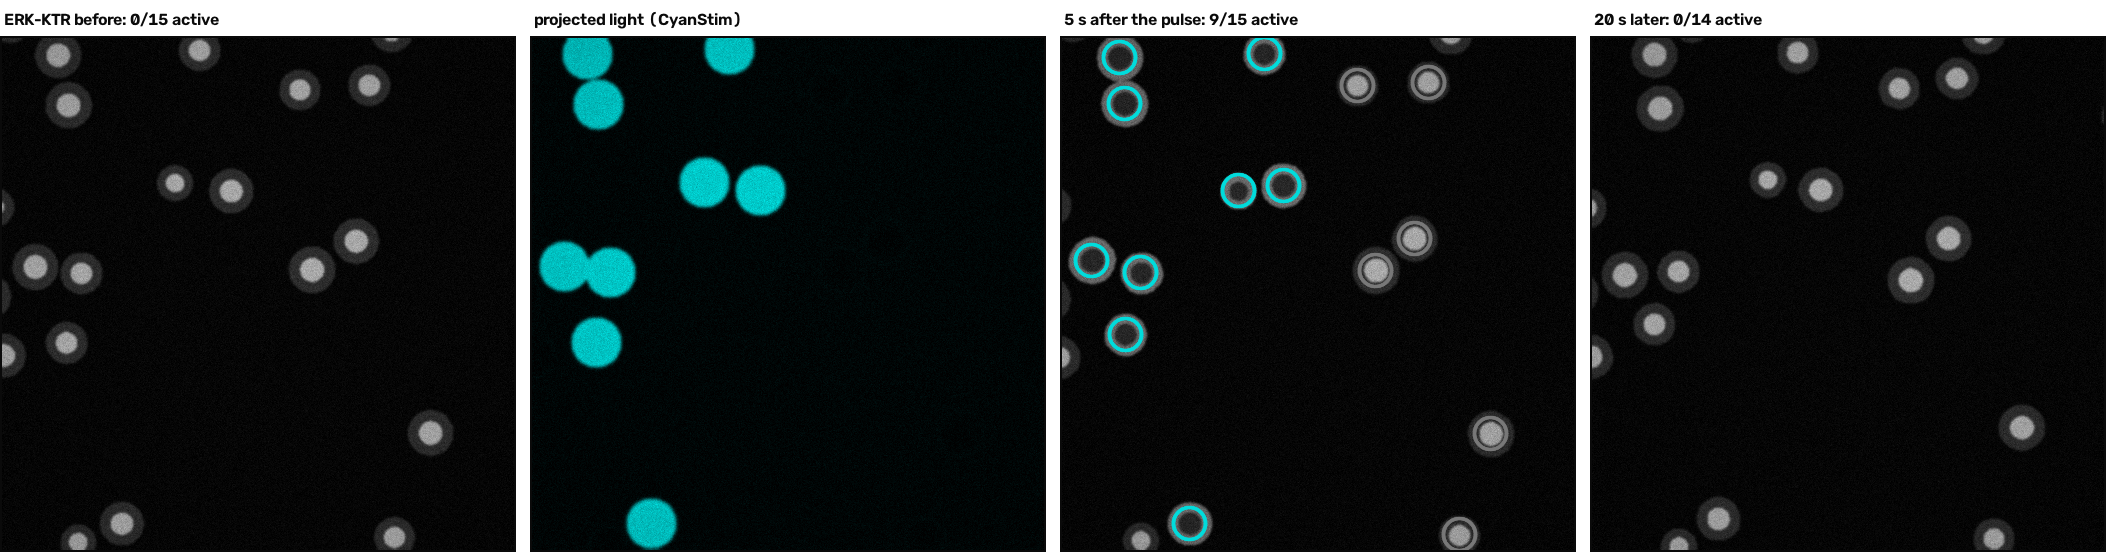
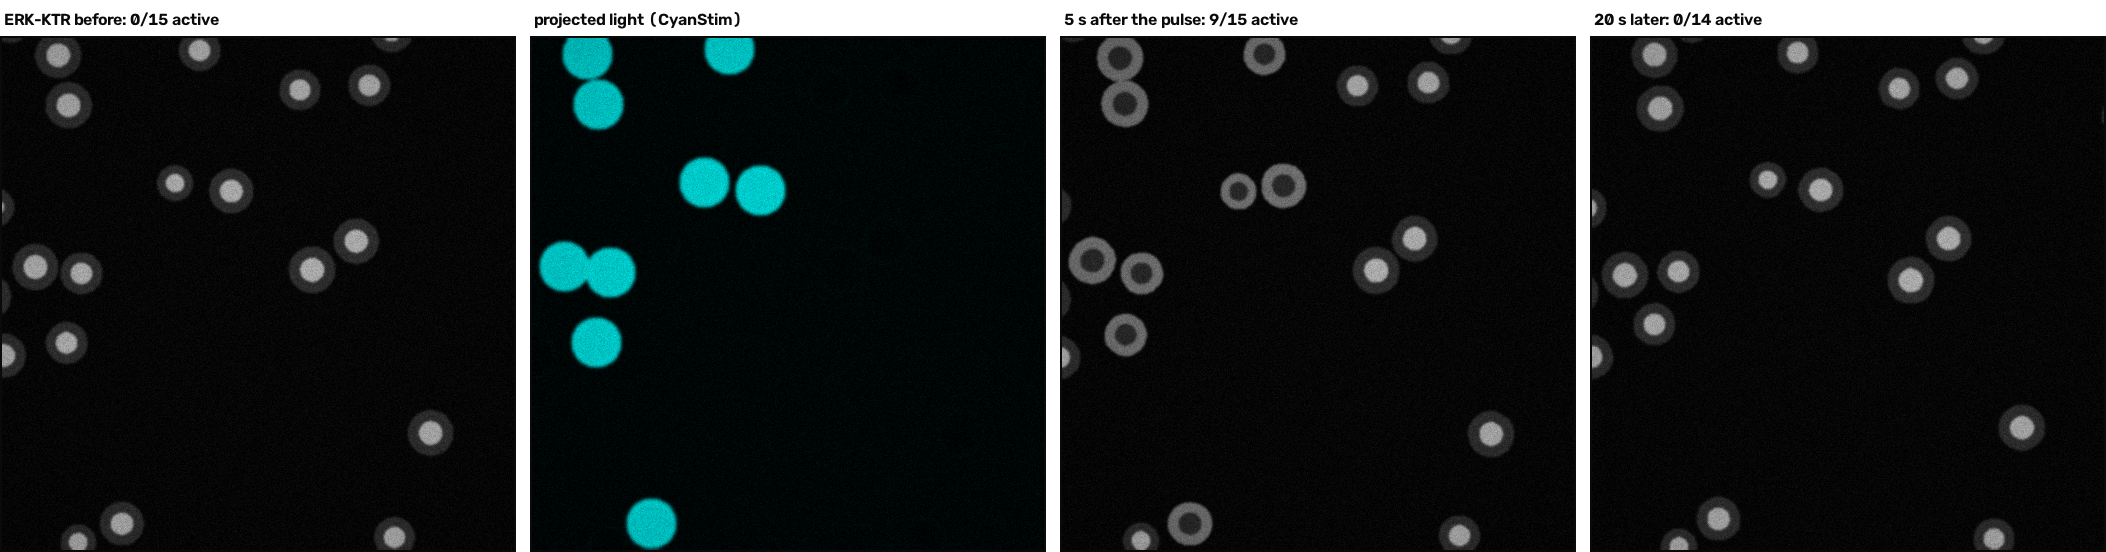
Drop ring overlays from the photoactivation figure (hard to read)

diff --git a/scripts/make_module_figures.py b/scripts/make_module_figures.py
@@ -435,15 +435,11 @@ def fig_photoactivation():
 
     proj_rgb = np.stack([np.zeros_like(proj), proj, proj], -1)  # cyan
 
-    after = ktr_rgb(ktr1)
-    for (x, y), a in zip(cells1, act1):
-        color = (0, 220, 220) if a > 0.5 else (120, 120, 120)
-        cv2.circle(after, (x, y), 16, color, 2, cv2.LINE_AA)
-
     panels = [
         frame_panel(ktr_rgb(ktr0), f"ERK-KTR before: {n0}/{len(cells)} active"),
         frame_panel(proj_rgb, "projected light (CyanStim)"),
-        frame_panel(after, f"5 s after the pulse: {n1}/{len(cells1)} active"),
+        frame_panel(ktr_rgb(ktr1),
+                    f"5 s after the pulse: {n1}/{len(cells1)} active"),
         frame_panel(ktr_rgb(ktr2), f"20 s later: {n2}/{len(cells2)} active"),
     ]
     cv2.imwrite(f"{OUT}/photoactivation_expected.png",
